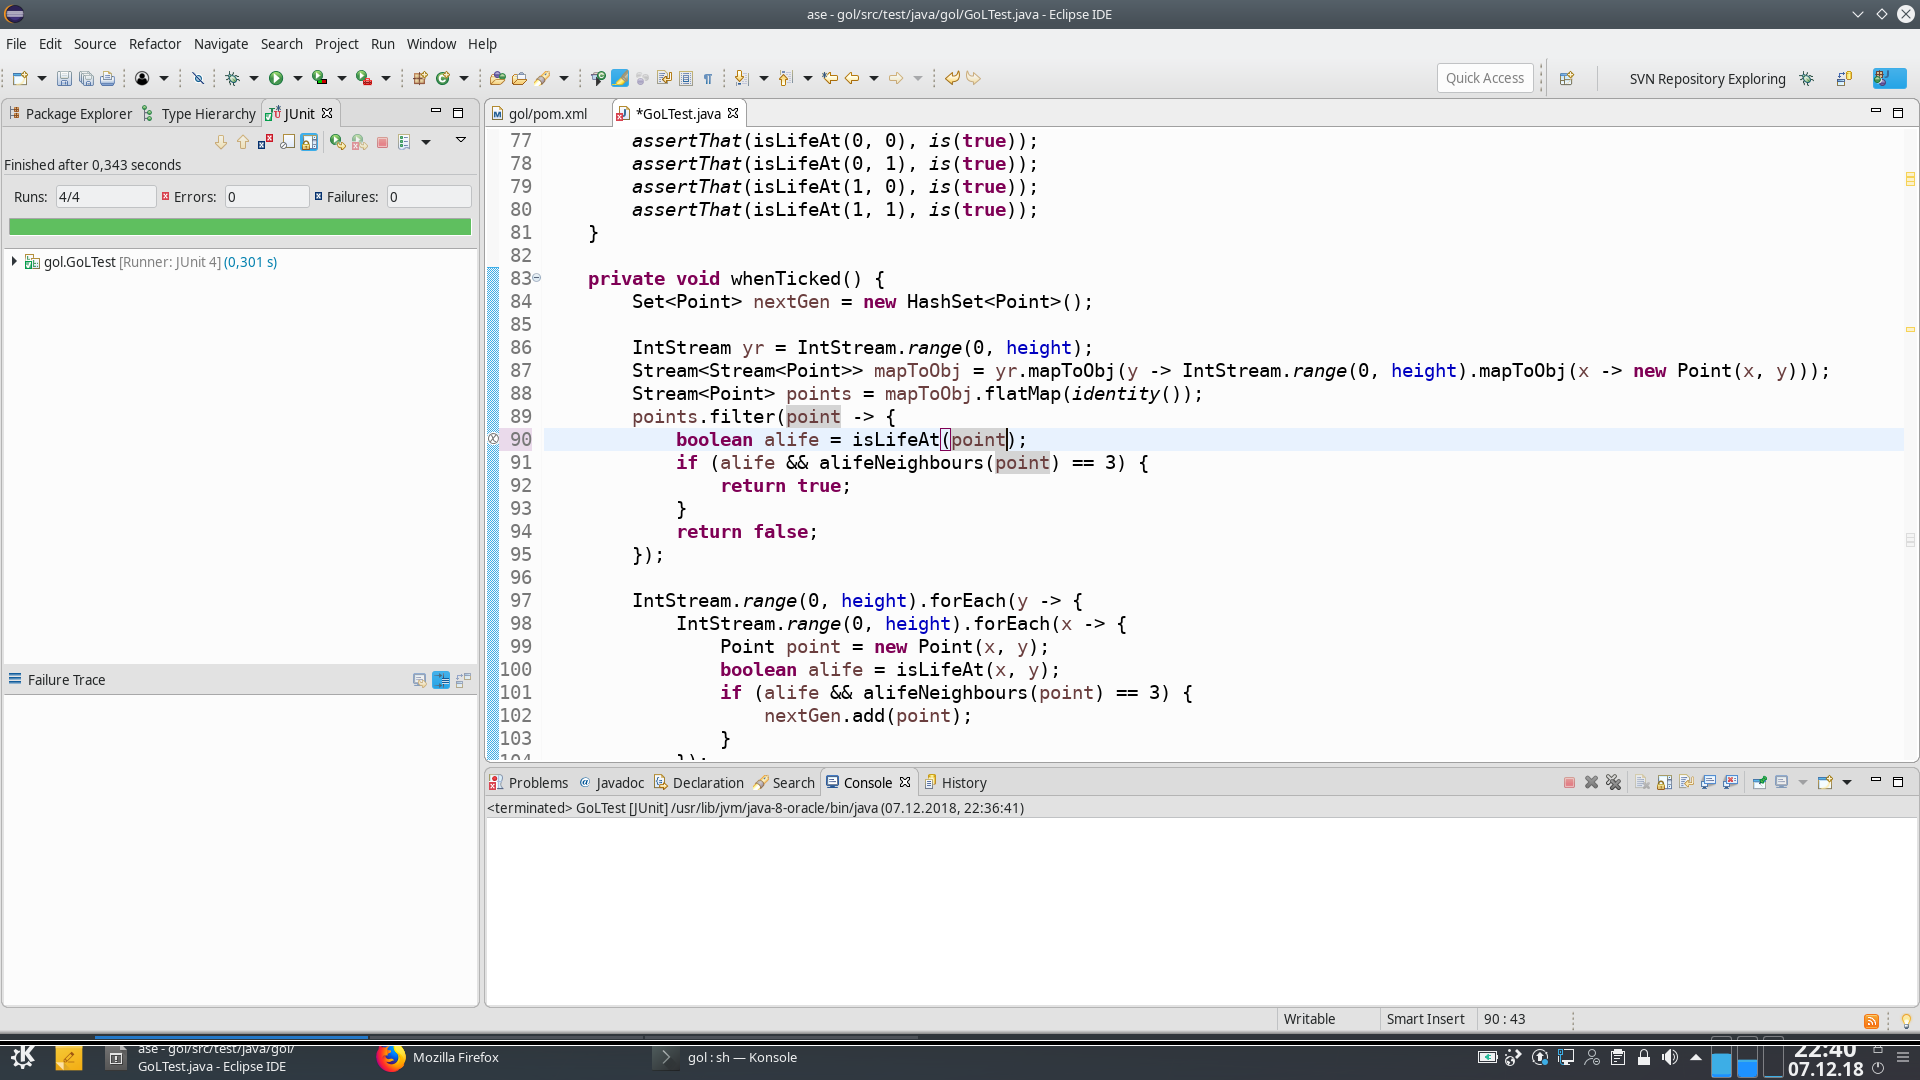
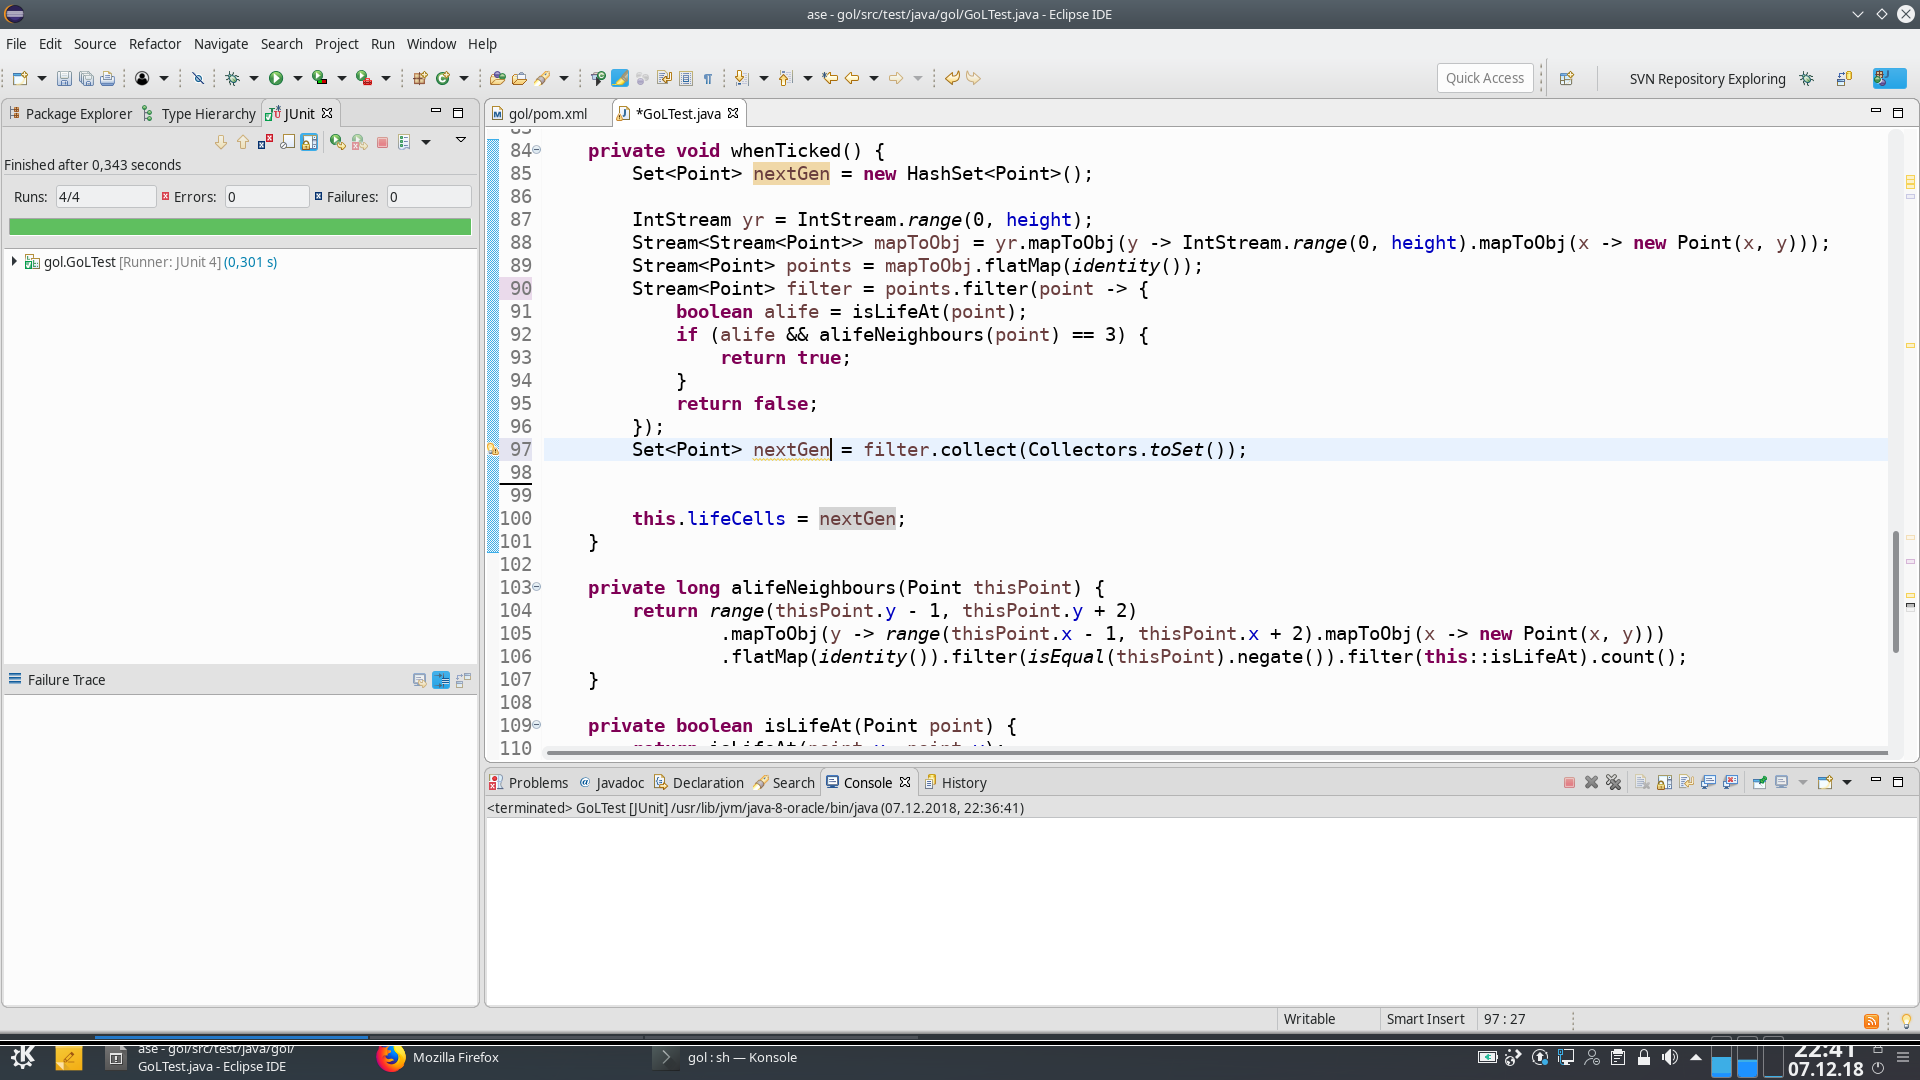
autocommit on change

diff --git a/src/test/java/gol/GoLTest.java b/src/test/java/gol/GoLTest.java
@@ -11,6 +11,7 @@ import java.util.Set;
 import java.util.concurrent.atomic.AtomicInteger;
 import java.util.function.Function;
 import java.util.function.Predicate;
+import java.util.stream.Collectors;
 import java.util.stream.IntStream;
 import java.util.stream.Stream;
 
@@ -86,23 +87,15 @@ public class GoLTest {
 		IntStream yr = IntStream.range(0, height);
 		Stream<Stream<Point>> mapToObj = yr.mapToObj(y -> IntStream.range(0, height).mapToObj(x -> new Point(x, y)));
 		Stream<Point> points = mapToObj.flatMap(identity());
-		points.filter(point -> {
+		Stream<Point> filter = points.filter(point -> {
 			boolean alife = isLifeAt(point);
 			if (alife && alifeNeighbours(point) == 3) {
 				return true;
 			}
 			return false;
 		});
+		Set<Point> nextGen = filter.collect(Collectors.toSet());
 
-		IntStream.range(0, height).forEach(y -> {
-			IntStream.range(0, height).forEach(x -> {
-				Point point = new Point(x, y);
-				boolean alife = isLifeAt(x, y);
-				if (alife && alifeNeighbours(point) == 3) {
-					nextGen.add(point);
-				}
-			});
-		});
 
 		this.lifeCells = nextGen;
 	}
